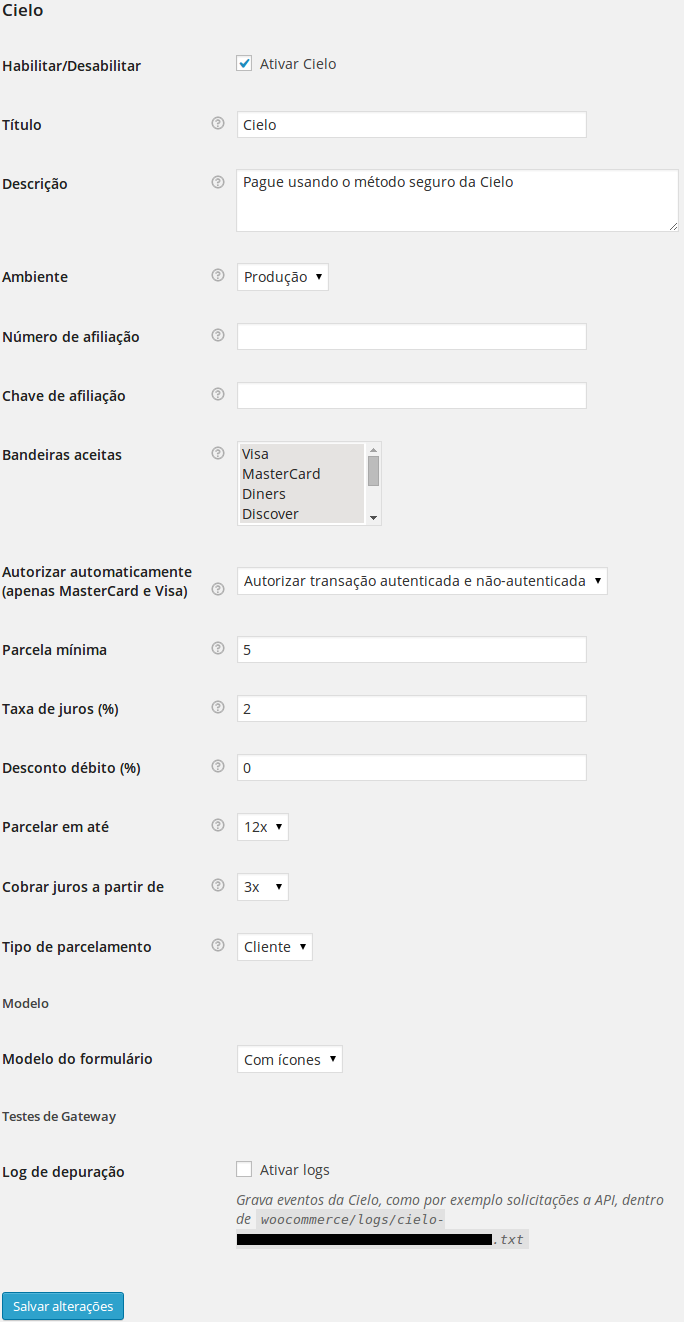
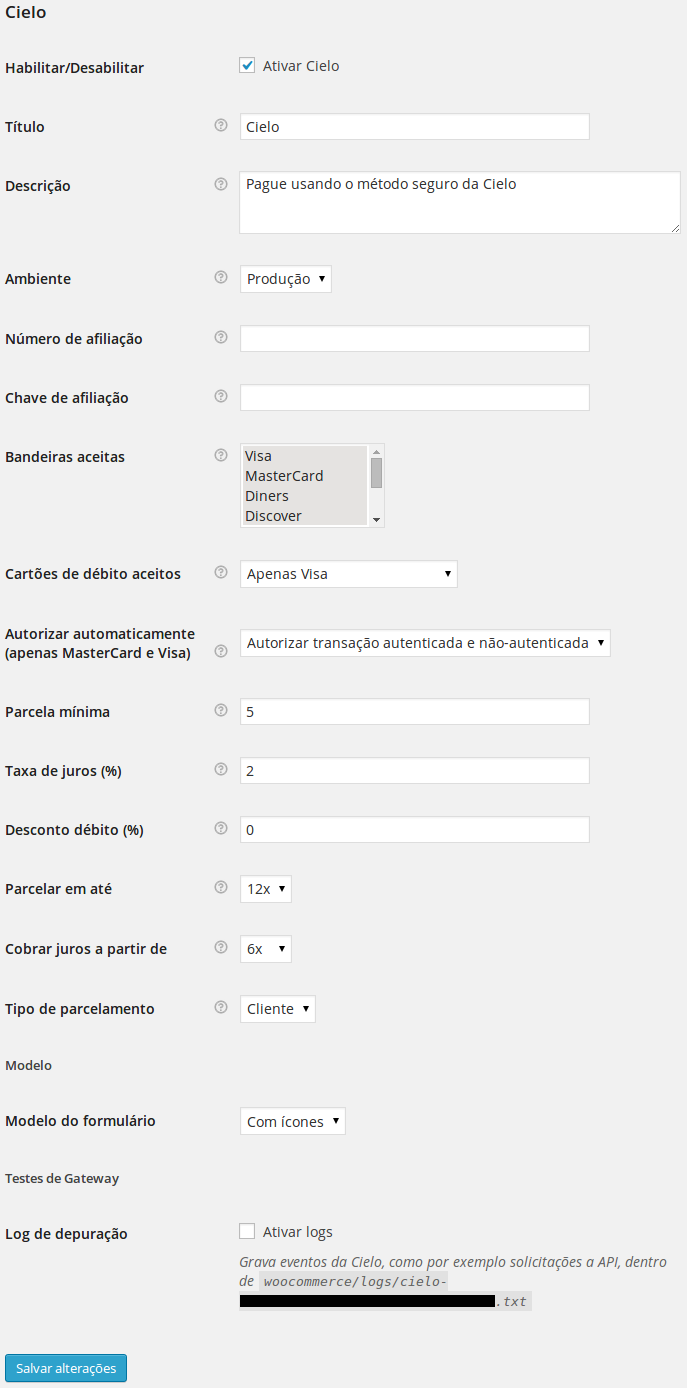
added a option to select the debit methods available

diff --git a/assets/js/checkout-icons.min.js b/assets/js/checkout-icons.min.js
@@ -1,1 +1,1 @@
-!function(a){"use strict";a(function(){function b(b){var c=a("#cielo-installments");a("#cielo-installments").empty(),a("#cielo-installments").prepend(a.data(document.body,"cielo_installments")),"visa"!==b&&"mastercard"!==b&&a(".cielo-debit",c).remove(),"discover"===b&&a("label",c).not(".cielo-at-sight").remove()}a.data(document.body,"cielo_installments",a("#cielo-installments").html()),a("body").on("ajaxComplete",function(){a.data(document.body,"cielo_installments",a("#cielo-installments").html()),b(a("body #cielo-card-brand input").first().val())}),a("body").on("click","#cielo-card-brand input",function(){a("#cielo-select-name strong").html("<strong>"+a(this).parent("label").attr("title")+"</strong>"),b(a(this).val())})})}(jQuery);
+!function(a){"use strict";a(function(){function b(b){var c=a("#cielo-installments"),d=[],e=null;switch(a("#cielo-installments").empty(),a("#cielo-installments").prepend(a.data(document.body,"cielo_installments")),e=a(".cielo-debit",c).attr("data-debit")){case"all":d=["visa","mastercard"];break;case"visa":d=["visa"];break;case"mastercard":d=["mastercard"]}-1===a.inArray(b,d)&&a(".cielo-debit",c).remove(),"discover"===b&&a("label",c).not(".cielo-at-sight").remove(),a("input:eq(0)",c).attr("checked","checked")}a.data(document.body,"cielo_installments",a("#cielo-installments").html()),a("body").on("ajaxComplete",function(){a.data(document.body,"cielo_installments",a("#cielo-installments").html()),b(a("body #cielo-card-brand input").first().val())}),a("body").on("click","#cielo-card-brand input",function(){a("#cielo-select-name strong").html("<strong>"+a(this).parent("label").attr("title")+"</strong>"),b(a(this).val())})})}(jQuery);

diff --git a/assets/js/admin.min.js b/assets/js/admin.min.js
@@ -1,1 +1,1 @@
-!function(a){"use strict";a(function(){function b(b){var c=a("#mainform .form-table:eq(0) tr:eq(4), #mainform .form-table:eq(0) tr:eq(5)");"test"===b?c.hide():c.show()}function c(b){var c=a("#mainform .form-table:eq(0) tr:eq(7), #mainform .form-table:eq(0) tr:eq(10)");-1<a.inArray("visa",b)||-1<a.inArray("mastercard",b)?c.show():c.hide()}b(a("#woocommerce_cielo_environment").val()),a("#woocommerce_cielo_environment").on("change",function(){b(a(this).val())}),c(a("#woocommerce_cielo_methods").val()),a("#woocommerce_cielo_methods").on("change",function(){c(a(this).val())})})}(jQuery);
+!function(a){"use strict";a(function(){function b(b){var c=a("#mainform .form-table:eq(0) tr:eq(4), #mainform .form-table:eq(0) tr:eq(5)");"test"===b?c.hide():c.show()}function c(b){var c=a("#mainform .form-table:eq(0) tr:eq(7), #mainform .form-table:eq(0) tr:eq(8)");-1<a.inArray("visa",b)||-1<a.inArray("mastercard",b)?c.show():c.hide()}function d(b){var c=a("#mainform .form-table:eq(0) tr:eq(11)"),d=a("#woocommerce_cielo_methods").val();"none"!==b&&(-1<a.inArray("visa",d)||-1<a.inArray("mastercard",d))?c.show():c.hide()}b(a("#woocommerce_cielo_environment").val()),a("#woocommerce_cielo_environment").on("change",function(){b(a(this).val())}),c(a("#woocommerce_cielo_methods").val()),a("#woocommerce_cielo_methods").on("change",function(){c(a(this).val())}),d(a("#woocommerce_cielo_debit_methods").val()),a("#woocommerce_cielo_debit_methods").on("change",function(){d(a(this).val())})})}(jQuery);

diff --git a/assets/js/checkout-default.min.js b/assets/js/checkout-default.min.js
@@ -1,1 +1,1 @@
-!function(a){"use strict";a(function(){function b(b){var c=a("#cielo-installments");a("#cielo-installments").empty(),a("#cielo-installments").prepend(a.data(document.body,"cielo_installments")),"visa"!==b&&"mastercard"!==b&&a(".cielo-debit",c).remove(),"discover"===b&&a("option",c).not(".cielo-at-sight").remove()}a.data(document.body,"cielo_installments",a("#cielo-installments").html()),a("body").on("ajaxComplete",function(){a.data(document.body,"cielo_installments",a("#cielo-installments").html()),b(a("body #cielo-card-brand option").first().val())}),a("body").on("change","#cielo-card-brand",function(){b(a(":selected",a(this)).val())})})}(jQuery);
+!function(a){"use strict";a(function(){function b(b){var c=a("#cielo-installments"),d=[],e=null;switch(a("#cielo-installments").empty(),a("#cielo-installments").prepend(a.data(document.body,"cielo_installments")),e=a(".cielo-debit",c).attr("data-debit")){case"all":d=["visa","mastercard"];break;case"visa":d=["visa"];break;case"mastercard":d=["mastercard"]}-1===a.inArray(b,d)&&a(".cielo-debit",c).remove(),"discover"===b&&a("option",c).not(".cielo-at-sight").remove()}a.data(document.body,"cielo_installments",a("#cielo-installments").html()),a("body").on("ajaxComplete",function(){a.data(document.body,"cielo_installments",a("#cielo-installments").html()),b(a("body #cielo-card-brand option").first().val())}),a("body").on("change","#cielo-card-brand",function(){b(a(":selected",a(this)).val())})})}(jQuery);

diff --git a/assets/js/admin.js b/assets/js/admin.js
@@ -25,12 +25,12 @@
 		});
 
 		/**
-		 * Switch the options based on the selected methods/
+		 * Switch the options based on the selected methods.
 		 *
 		 * @param {array} methods
 		 */
 		function switchMethods( methods ) {
-			var fields = $( '#mainform .form-table:eq(0) tr:eq(7), #mainform .form-table:eq(0) tr:eq(10)' );
+			var fields = $( '#mainform .form-table:eq(0) tr:eq(7), #mainform .form-table:eq(0) tr:eq(8)' );
 
 			if ( -1 < $.inArray( 'visa', methods ) || -1 < $.inArray( 'mastercard', methods ) ) {
 				fields.show();
@@ -43,6 +43,28 @@
 
 		$( '#woocommerce_cielo_methods' ).on( 'change', function () {
 			switchMethods( $( this ).val() );
+		});
+
+		/**
+		 * Switch the options based on the selected debit methods.
+		 *
+		 * @param {array} debit_methods
+		 */
+		function switchDebitMethods( debit_methods ) {
+			var fields  = $( '#mainform .form-table:eq(0) tr:eq(11)' ),
+				methods = $( '#woocommerce_cielo_methods' ).val();
+
+			if ( 'none' !== debit_methods && ( -1 < $.inArray( 'visa', methods ) || -1 < $.inArray( 'mastercard', methods ) ) ) {
+				fields.show();
+			} else {
+				fields.hide();
+			}
+		}
+
+		switchDebitMethods( $( '#woocommerce_cielo_debit_methods' ).val() );
+
+		$( '#woocommerce_cielo_debit_methods' ).on( 'change', function () {
+			switchDebitMethods( $( this ).val() );
 		});
 	});
 

diff --git a/assets/js/checkout-icons.js b/assets/js/checkout-icons.js
@@ -12,18 +12,35 @@
 		 * @param {string} card
 		 */
 		function setInstallmentsFields( card ) {
-			var installments = $( '#cielo-installments' );
+			var installments = $( '#cielo-installments' ),
+				methods      = [],
+				debitMethods = null;
 
 			$( '#cielo-installments' ).empty();
 			$( '#cielo-installments' ).prepend( $.data( document.body, 'cielo_installments' ) );
+			debitMethods = $( '.cielo-debit', installments ).attr( 'data-debit' );
 
-			if ( 'visa' !== card && 'mastercard' !== card ) {
+			switch( debitMethods ) {
+				case 'all' :
+					methods = ['visa', 'mastercard'];
+					break;
+				case 'visa' :
+					methods = ['visa'];
+					break;
+				case 'mastercard' :
+					methods = ['mastercard'];
+					break;
+			}
+
+			if ( -1 === $.inArray( card, methods ) ) {
 				$( '.cielo-debit', installments ).remove();
 			}
 
 			if ( 'discover' === card ) {
 				$( 'label', installments ).not( '.cielo-at-sight' ).remove();
 			}
+
+			$( 'input:eq(0)', installments ).attr( 'checked', 'checked' );
 		}
 
 		// Set on update the checkout fields.

diff --git a/assets/js/checkout-default.js b/assets/js/checkout-default.js
@@ -12,12 +12,27 @@
 		 * @param {string} card
 		 */
 		function setInstallmentsFields( card ) {
-			var installments = $( '#cielo-installments' );
+			var installments = $( '#cielo-installments' ),
+				methods      = [],
+				debitMethods = null;
 
 			$( '#cielo-installments' ).empty();
 			$( '#cielo-installments' ).prepend( $.data( document.body, 'cielo_installments' ) );
+			debitMethods = $( '.cielo-debit', installments ).attr( 'data-debit' );
 
-			if ( 'visa' !== card && 'mastercard' !== card ) {
+			switch( debitMethods ) {
+				case 'all' :
+					methods = ['visa', 'mastercard'];
+					break;
+				case 'visa' :
+					methods = ['visa'];
+					break;
+				case 'mastercard' :
+					methods = ['mastercard'];
+					break;
+			}
+
+			if ( -1 === $.inArray( card, methods ) ) {
 				$( '.cielo-debit', installments ).remove();
 			}
 

diff --git a/includes/class-wc-cielo-gateway.php b/includes/class-wc-cielo-gateway.php
@@ -39,6 +39,7 @@ class WC_Cielo_Gateway extends WC_Payment_Gateway {
 		$this->number               = $this->get_option( 'number' );
 		$this->key                  = $this->get_option( 'key' );
 		$this->methods              = $this->get_option( 'methods' );
+		$this->debit_methods        = $this->get_option( 'debit_methods', 'visa' );
 		$this->authorization        = $this->get_option( 'authorization' );
 		$this->smallest_installment = $this->get_option( 'smallest_installment' );
 		$this->interest_rate        = $this->get_option( 'interest_rate' );
@@ -186,6 +187,19 @@ class WC_Cielo_Gateway extends WC_Payment_Gateway {
 				'desc_tip'    => true,
 				'default'     => array( 'visa', 'mastercard' ),
 				'options'     => WC_Cielo_API::get_payment_methods()
+			),
+			'debit_methods' => array(
+				'title'       => __( 'Accepted Debit Cards', 'cielo-woocommerce' ),
+				'type'        => 'select',
+				'description' => __( 'Select the debit card that will be accepted as payment.', 'cielo-woocommerce' ),
+				'desc_tip'    => true,
+				'default'     => 'visa',
+				'options'     => array(
+					'none'       => __( 'None', 'cielo-woocommerce' ),
+					'visa'       => __( 'Visa only', 'cielo-woocommerce' ),
+					'mastercard' => __( 'MasterCard only', 'cielo-woocommerce' ),
+					'all'        => __( 'All debit methods', 'cielo-woocommerce' )
+				)
 			),
 			'authorization' => array(
 				'title'       => __( 'Automatic Authorization (MasterCard and Visa only)', 'cielo-woocommerce' ),
@@ -422,7 +436,7 @@ class WC_Cielo_Gateway extends WC_Payment_Gateway {
 		}
 
 		// Validate if debit is available.
-		if ( ! in_array( $card, WC_Cielo_API::get_debit_methods() ) && 0 == $installments ) {
+		if ( ! in_array( $card, WC_Cielo_API::get_debit_methods( $this->debit_methods ) ) && 0 === $installments ) {
 			$this->add_error( sprintf( __( '%s does not accept payment by debit.', 'cielo-woocommerce' ), WC_Cielo_API::get_payment_method_name( $card ) ) );
 			$valid = false;
 		}

diff --git a/includes/views/html-payment-form-default.php b/includes/views/html-payment-form-default.php
@@ -17,14 +17,13 @@ if ( ! defined( 'ABSPATH' ) ) {
 		<label for="cielo-installments"><?php _e( 'Installments', 'cielo-woocommerce' ); ?> <span class="required">*</span></label>
 		<select id="cielo-installments" name="cielo_installments" style="font-size: 1.5em; padding: 4px; width: 100%;">
 			<?php
-				$debit_methods   = WC_Cielo_API::get_debit_methods();
+				$debit_methods   = WC_Cielo_API::get_debit_methods( $this->debit_methods );
 				$available_debit = array_intersect( $debit_methods, $this->methods );
 				if ( ! empty( $available_debit ) ) :
 					$debit_total    = $cart_total * ( ( 100 - WC_Cielo_API::get_valid_value( $this->debit_discount ) ) / 100 );
 					$debit_discount = ( $cart_total > $debit_total ) ? ' (' . WC_Cielo_API::get_valid_value( $this->debit_discount ) . '% ' . _x( 'off', 'price', 'cielo-woocommerce' ) . ')' : '';
 				?>
-
-				<option value="0" class="cielo-debit"><?php echo sprintf( __( 'Debit %s%s', 'cielo-woocommerce' ), sanitize_text_field( woocommerce_price( $debit_total ) ), $debit_discount ); ?></option>
+				<option value="0" class="cielo-debit" data-debit="<?php echo esc_attr( $this->debit_methods ); ?>"><?php echo sprintf( __( 'Debit %s%s', 'cielo-woocommerce' ), sanitize_text_field( woocommerce_price( $debit_total ) ), $debit_discount ); ?></option>
 
 			<?php endif; ?>
 			<?php for ( $i = 1; $i <= $this->installments; $i++ ) :

diff --git a/includes/views/html-payment-form-icons.php b/includes/views/html-payment-form-icons.php
@@ -16,14 +16,14 @@ if ( ! defined( 'ABSPATH' ) ) {
 	<div id="cielo-installments">
 		<p class="form-row form-row-first">
 			<?php
-				$debit_methods   = WC_Cielo_API::get_debit_methods();
+				$debit_methods   = WC_Cielo_API::get_debit_methods( $this->debit_methods );
 				$available_debit = array_intersect( $debit_methods, $this->methods );
 				if ( ! empty( $available_debit ) ) :
 					$debit_total    = $cart_total * ( ( 100 - WC_Cielo_API::get_valid_value( $this->debit_discount ) ) / 100 );
 					$debit_discount = ( $cart_total > $debit_total ) ? ' (' . WC_Cielo_API::get_valid_value( $this->debit_discount ) . '% ' . _x( 'off', 'price', 'cielo-woocommerce' ) . ')' : '';
 				?>
 
-				<label class="cielo-debit"><input type="radio" name="cielo_installments" value="0" /> <?php echo sprintf( __( 'Debit %s%s', 'cielo-woocommerce' ), '<strong>' . sanitize_text_field( woocommerce_price( $debit_total ) ) . '</strong>', $debit_discount ); ?></label>
+				<label class="cielo-debit" data-debit="<?php echo esc_attr( $this->debit_methods ); ?>"><input type="radio" name="cielo_installments" value="0" /> <?php echo sprintf( __( 'Debit %s%s', 'cielo-woocommerce' ), '<strong>' . sanitize_text_field( woocommerce_price( $debit_total ) ) . '</strong>', $debit_discount ); ?></label>
 
 			<?php endif; ?>
 			<?php

diff --git a/includes/class-wc-cielo-api.php b/includes/class-wc-cielo-api.php
@@ -120,8 +120,24 @@ class WC_Cielo_API {
 	 *
 	 * @return array
 	 */
-	public static function get_debit_methods() {
-		return array( 'visa', 'mastercard' );
+	public static function get_debit_methods( $debit_methods ) {
+		switch ( $debit_methods ) {
+			case 'all' :
+				$methods = array( 'visa', 'mastercard' );
+				break;
+			case 'visa' :
+				$methods = array( 'visa' );
+				break;
+			case 'mastercard' :
+				$methods = array( 'mastercard' );
+				break;
+
+			default :
+				$methods = array();
+				break;
+		}
+
+		return $methods;
 	}
 
 	/**
@@ -356,7 +372,7 @@ class WC_Cielo_API {
 		}
 
 		// Set the debit values.
-		if ( in_array( $card_brand, self::get_debit_methods() ) && 0 == $installments ) {
+		if ( in_array( $card_brand, self::get_debit_methods( $this->gateway->debit_methods ) ) && 0 == $installments ) {
 			$order_total     = $order->order_total * ( ( 100 - self::get_valid_value( $this->gateway->debit_discount ) ) / 100 );
 			$payment_product = 'A';
 			$installments    = '1';

diff --git a/woocommerce-cielo-gateway.php b/woocommerce-cielo-gateway.php
@@ -5,7 +5,7 @@
  * Description: Adiciona a opção de pagamento pela Cielo ao WooCommerce
  * Author: Gabriel Reguly, claudiosanches
  * Author URI: http://omniwp.com.br
- * Version: 3.0.2
+ * Version: 3.0.3
  * License: GPLv2 or later
  * Text Domain: cielo-woocommerce
  * Domain Path: /languages/
@@ -30,7 +30,7 @@ class WC_Cielo {
 	 *
 	 * @var string
 	 */
-	const VERSION = '3.0.2';
+	const VERSION = '3.0.3';
 
 	/**
 	 * Instance of this class.
